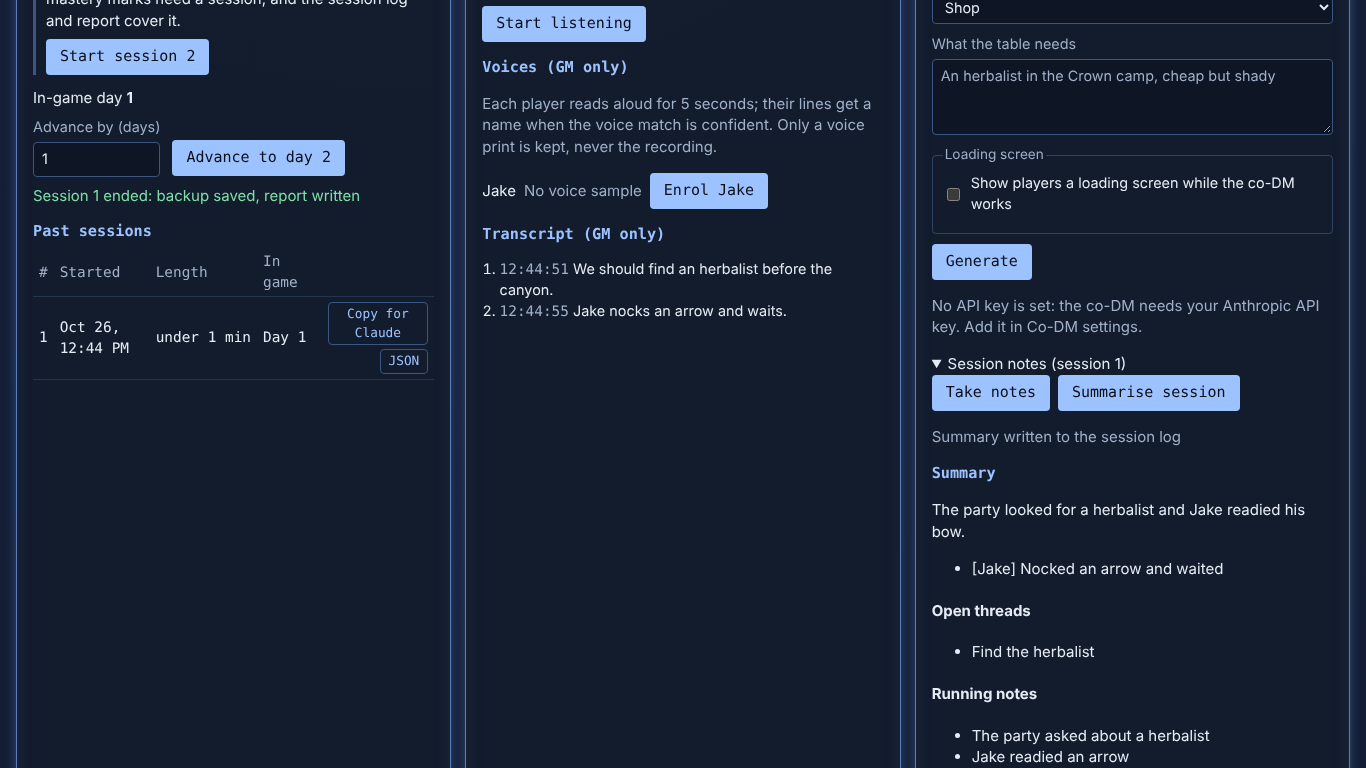
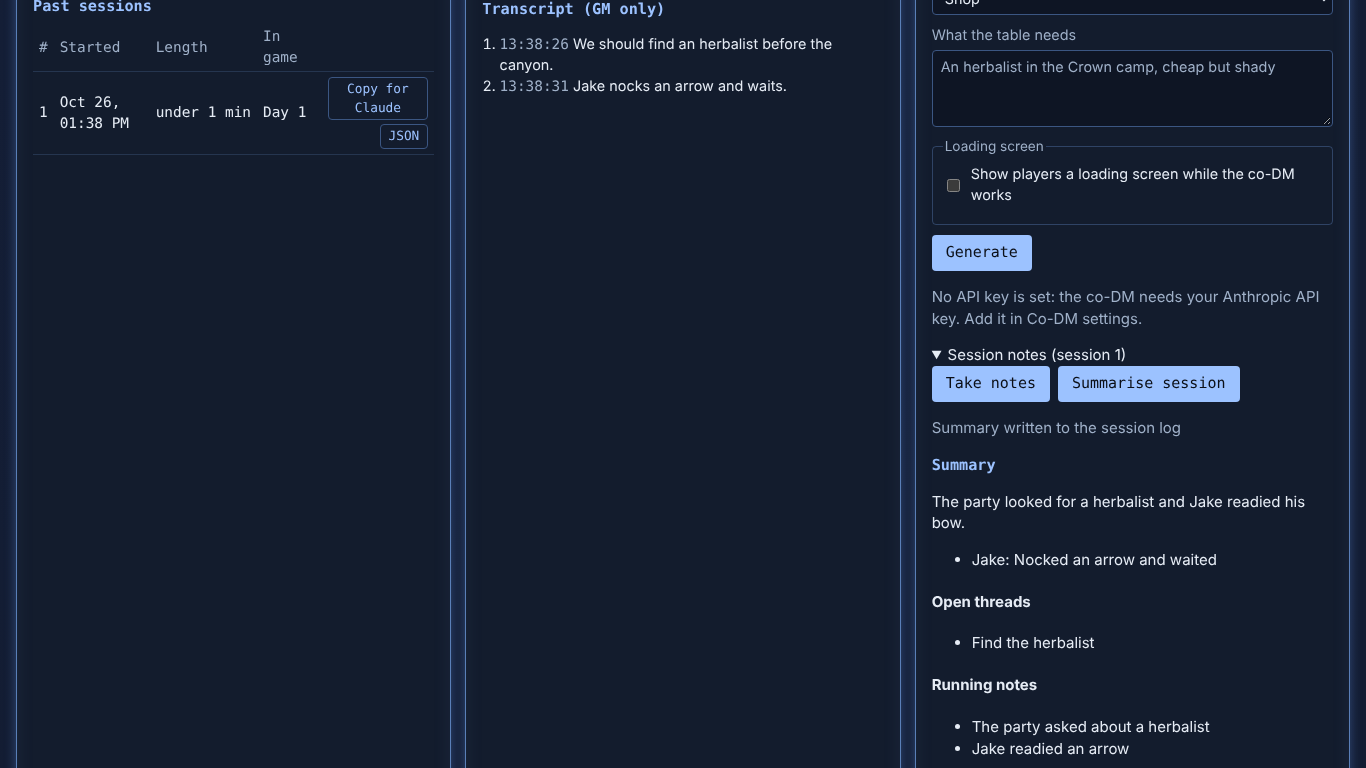
MC.9 review round 1: export follows every notes change; unread lines kept on an empty reply; notes file checked on read; one-line model text (D250)
Claude-Session: https://claude.ai/code/session_01EXXNBiStrfJAqiq4SSVq4K

diff --git a/apps/server/test/notesRoutes.test.ts b/apps/server/test/notesRoutes.test.ts
@@ -8,6 +8,10 @@ import { CoDm } from '../src/ai/coDm';
 import { FixtureAiClient } from '../src/ai/fake';
 import { readFileSync } from 'node:fs';
 import { createServer } from '../src/server';
+import { NotesStore } from '../src/ai/sessionNotes';
+import { draftsDir } from '../src/ai/practiceRoutes';
+import { sessionReport } from '../src/sessionLog';
+import { appendFileSync } from 'node:fs';
 import { transcriptsDir } from '../src/speech/routes';
 import { transcriptFile } from '../src/speech/transcript';
 import { CampaignStore } from '../src/store';
@@ -60,6 +64,19 @@ describe('session notes routes (MC.9)', () => {
       cipher: null,
       makeClient: () => {
         fake = new FixtureAiClient([
+          // Specific fixtures first: the first match wins.
+          { role: 'fast', match: '. Brin left town.', text: '{"notes": ["Brin left town"]}' },
+          { role: 'fast', match: 'Nothing worth noting', text: '{"notes": []}' },
+          {
+            role: 'fast',
+            match: '- Brin left town',
+            text: JSON.stringify({
+              whatHappened: 'Brin left town\n## Not a heading',
+              whoDidWhat: [],
+              openThreads: [],
+              npcsMet: ['Old Brin'],
+            }),
+          },
           { role: 'fast', match: 'Session notes.', text: '{"notes": ["The party met Old Brin"]}' },
           {
             role: 'fast',
@@ -180,5 +197,63 @@ describe('session notes routes (MC.9)', () => {
       session: session.number,
       notes: ['The party met Old Brin'],
     });
+  });
+
+  it('re-reads lines that gave no notes, and a second summary reaches the export (D250)', async () => {
+    const session = store.campaign.state!.sessions.at(-1)!;
+    const tf = transcriptFile(transcriptsDir(store), session.number);
+    const say = (text: string) =>
+      appendFileSync(
+        tf,
+        JSON.stringify({ at: '2026-10-26T20:30:00.000Z', startMs: 0, endMs: 900, text }) + '\n',
+      );
+    const stored = () => new NotesStore(draftsDir(store)).read(session.number);
+    const before = stored().readUpTo;
+    say('Nothing worth noting.');
+    const empty = await app.inject({
+      method: 'POST',
+      url: '/api/gm/ai/session-notes',
+      headers: gm,
+    });
+    expect(empty.json()).toMatchObject({ added: 0 });
+    expect(stored().readUpTo).toBe(before);
+
+    say('Brin left town.');
+    const some = await app.inject({ method: 'POST', url: '/api/gm/ai/session-notes', headers: gm });
+    expect(some.json()).toMatchObject({ added: 1 });
+    // The quiet line was sent again with the new one.
+    const prompt = fake.requests.at(-1)!.messages.at(-1)!.content;
+    expect(prompt).toContain('Nothing worth noting.');
+    expect(stored().readUpTo).toBe(before + 2);
+
+    const sum = await app.inject({
+      method: 'POST',
+      url: '/api/gm/ai/session-summary',
+      headers: gm,
+    });
+    expect(sum.statusCode, sum.body).toBe(200);
+    // Newlines in model text collapse to one line.
+    expect(sum.json().summary.whatHappened).toBe('Brin left town ## Not a heading');
+    const file = path.join(
+      exportsDir(),
+      store.id,
+      `session-${String(session.number).padStart(2, '0')}`,
+    );
+    const md = readFileSync(`${file}.md`, 'utf8');
+    expect(md).toContain('Brin left town ## Not a heading');
+    expect(md).not.toContain('The party met Old Brin in the Crown.');
+  });
+
+  it('a malformed summary never stops the session log (D250)', () => {
+    const session = store.campaign.state!.sessions.at(-1)!;
+    const bad = { readUpTo: 0, notes: ['a'], summary: { whatHappened: 'x' } } as never;
+    const report = sessionReport(
+      store.campaign,
+      session,
+      '2026-10-26T21:00:00.000Z',
+      undefined,
+      bad,
+    );
+    expect(report?.markdown).toBeTruthy();
   });
 });

diff --git a/apps/server/src/ai/sessionNotes.ts b/apps/server/src/ai/sessionNotes.ts
@@ -50,7 +50,13 @@ export function notesPrompt(lines: readonly TranscriptLine[]): string {
   ].join('\n');
 }
 
-const line = z.string().trim().min(1).max(400);
+/** One line of text: newlines and runs of spaces collapse, so model text cannot shape the markdown. */
+const oneLine = (max: number) =>
+  z
+    .string()
+    .transform((x) => x.replace(/\s+/g, ' ').trim())
+    .pipe(z.string().min(1).max(max));
+const line = oneLine(400);
 const notesSchema = z.object({ notes: z.array(z.unknown()) });
 
 /** Notes from a reply; non-string or empty items are dropped, not fatal. */
@@ -81,7 +87,7 @@ const listOf = (schema: z.ZodTypeAny) =>
     .transform((xs) => xs.flatMap((x) => (schema.safeParse(x).success ? [schema.parse(x)] : [])));
 
 const summarySchema = z.object({
-  whatHappened: z.string().trim().min(1).max(4000),
+  whatHappened: oneLine(4000),
   whoDidWhat: listOf(z.object({ character: line, did: line })),
   openThreads: listOf(line),
   npcsMet: listOf(line),
@@ -145,6 +151,20 @@ export function renderNotes(file: SessionNotesFile): string {
   return out.join('\n');
 }
 
+// The stored file is checked in full on read, so a hand-edited or damaged
+// file is refused rather than breaking the session log (D250).
+const storedSummary = z.object({
+  whatHappened: z.string(),
+  whoDidWhat: z.array(z.object({ character: z.string(), did: z.string() })),
+  openThreads: z.array(z.string()),
+  npcsMet: z.array(z.string()),
+});
+const fileSchema = z.object({
+  readUpTo: z.number().int().min(0),
+  notes: z.array(z.string()),
+  summary: storedSummary.nullable().default(null),
+});
+
 /** `<campaign>/codm/notes-<NN>.json`, one per play session. */
 export class NotesStore {
   constructor(private readonly dir: string) {}
@@ -156,11 +176,15 @@ export class NotesStore {
   read(session: number): SessionNotesFile {
     const f = this.file(session);
     if (!existsSync(f)) return EMPTY;
-    const data = JSON.parse(readFileSync(f, 'utf8')) as Partial<SessionNotesFile> | null;
-    if (!data || !Array.isArray(data.notes) || typeof data.readUpTo !== 'number') {
+    let data: unknown;
+    try {
+      data = JSON.parse(readFileSync(f, 'utf8'));
+    } catch {
       throw new Error(`Damaged session notes file: ${f}`);
     }
-    return { readUpTo: data.readUpTo, notes: data.notes, summary: data.summary ?? null };
+    const parsed = fileSchema.safeParse(data);
+    if (!parsed.success) throw new Error(`Damaged session notes file: ${f}`);
+    return parsed.data;
   }
 
   write(session: number, value: SessionNotesFile): void {

diff --git a/apps/server/src/ai/notesRoutes.ts b/apps/server/src/ai/notesRoutes.ts
@@ -71,8 +71,12 @@ export function registerNotesRoutes(
       const file = notes.read(session.number);
       const all = readTranscript(store, session.number);
       const fresh = await takeNotes(options.client, all.slice(file.readUpTo));
-      const next = { ...file, readUpTo: all.length, notes: [...file.notes, ...fresh] };
-      notes.write(session.number, next);
+      // Lines count as read only when notes came back, so a reply with no
+      // usable notes leaves them to be read again (D250).
+      const next = fresh.length
+        ? { ...file, readUpTo: all.length, notes: [...file.notes, ...fresh] }
+        : file;
+      if (fresh.length) notes.write(session.number, next);
       return {
         session: session.number,
         notes: next.notes,
@@ -89,9 +93,12 @@ export function registerNotesRoutes(
       // Catch up on lines heard since the last notes first.
       const all = readTranscript(store, session.number);
       const fresh = await takeNotes(options.client, all.slice(file.readUpTo));
-      file = { ...file, readUpTo: all.length, notes: [...file.notes, ...fresh] };
-      if (file.notes.length === 0) {
+      if (fresh.length) {
+        // Saved before the summary call, so a failed summary keeps them (D250).
+        file = { ...file, readUpTo: all.length, notes: [...file.notes, ...fresh] };
         notes.write(session.number, file);
+      }
+      if (file.notes.length === 0) {
         throw new AiError('Nothing heard this session to summarise', 'bad-reply');
       }
       const party = state.characterOrder

diff --git a/apps/server/src/sessionLog.ts b/apps/server/src/sessionLog.ts
@@ -1,3 +1,4 @@
+import { createHash } from 'node:crypto';
 import {
   closeSync,
   existsSync,
@@ -97,6 +98,15 @@ function targetSession(state: CampaignState | null): SessionRecord | null {
 }
 
 /** Format tag of the JSON session log and report (M9.1). */
+/** Co-DM notes as markdown; a malformed notes value never stops the session log (D250). */
+function safeNotes(coDm: SessionNotesFile): string {
+  try {
+    return renderNotes(coDm);
+  } catch {
+    return '';
+  }
+}
+
 export const SESSION_REPORT_FORMAT = 'the-system/session-report';
 
 /**
@@ -120,7 +130,7 @@ export function sessionReport(
       ? base
       : sessionLogBase(campaign, range.fromSeq);
   const log = buildSessionLog(campaign, range.fromSeq, fold, toSeq);
-  const notes = coDm ? renderNotes(coDm) : '';
+  const notes = coDm ? safeNotes(coDm) : '';
   const markdown =
     renderSessionLog(log, { startedAt: session.startedAt, writtenAt, session }) +
     (notes ? `\n${notes}` : '');
@@ -191,7 +201,8 @@ export class SessionLogWriter {
 
   private notesKey(sessionNumber: number): string {
     const n = this.notes(sessionNumber);
-    return n ? `${n.notes.length}:${n.summary ? 's' : '-'}` : '';
+    // Any change to the notes or summary (a re-summary included) rewrites the log (D250).
+    return n ? createHash('sha1').update(JSON.stringify(n)).digest('hex').slice(0, 12) : '';
   }
 
   private plan() {

diff --git a/apps/server/test/sessionNotes.test.ts b/apps/server/test/sessionNotes.test.ts
@@ -99,6 +99,14 @@ describe('session notes (MC.9)', () => {
       expect(store.read(2).notes).toEqual([]);
       writeFileSync(store.file(3), '{"notes": 1}');
       expect(() => store.read(3)).toThrow(/Damaged/);
+      // A hand-edited summary missing a list is refused too (D250).
+      writeFileSync(
+        store.file(4),
+        JSON.stringify({ readUpTo: 1, notes: ['a'], summary: { whatHappened: 'x' } }),
+      );
+      expect(() => store.read(4)).toThrow(/Damaged/);
+      writeFileSync(store.file(5), 'not json');
+      expect(() => store.read(5)).toThrow(/Damaged/);
     } finally {
       rmSync(dir, { recursive: true, force: true });
     }

diff --git a/e2e/MC.9.spec.ts b/e2e/MC.9.spec.ts
@@ -92,7 +92,7 @@ test('the co-DM notes the session and writes its summary into the export', async
   );
   const summary = notes.getByTestId('session-summary');
   await expect(summary).toContainText('The party looked for a herbalist');
-  await expect(summary).toContainText('[Jake] Nocked an arrow and waited');
+  await expect(summary).toContainText('Jake: Nocked an arrow and waited');
   await expect(summary).toContainText('Find the herbalist');
   await notes.scrollIntoViewIfNeeded();
   await gm.screenshot({ path: path.join(shots, 'gm-session-summary-1366x768.png') });

diff --git a/apps/web/src/gm/SessionNotes.tsx b/apps/web/src/gm/SessionNotes.tsx
@@ -90,7 +90,7 @@ export function SessionNotes({ gmKey }: { gmKey: string }) {
             <ul aria-label="Who did what">
               {s.whoDidWhat.map((w, i) => (
                 <li key={i}>
-                  [{w.character}] {w.did}
+                  {w.character}: {w.did}
                 </li>
               ))}
             </ul>

diff --git a/docs/DECISIONS.md b/docs/DECISIONS.md
@@ -272,3 +272,4 @@ Newest at the bottom. Format: ID · date · decision · why. D-numbers are writt
 - D246 · 2026-10-26 · MC.7 review round 2: with no session running, Draft reads the most recent session's transcript and stamps that session on its drafts, so drafting works from the end-of-session review after End session. · DESIGN §11 puts drafts "into the end-of-session review".
 - D247 · 2026-10-26 · MC.9 session notes and summary: GM-only routes `/api/gm/ai/session-notes` (take notes from new transcript lines of the running session, else the one that just ended) and `/api/gm/ai/session-summary` (catch up the notes, then the fast model writes what happened, who did what, open threads, NPCs met); both stored per session in `codm/notes-NN.json` and written into that session's log and export (`## Co-DM summary`/`## Co-DM notes`, JSON `coDm`). The summary is written when the GM asks (a button after End session), never by an automatic paid call; a damaged notes file never stops the session log. · DESIGN §11 "Memory" and "Limits" (the GM approves every paid step).
 - D248 · 2026-10-26 · Efficiency check (LOOP §9): Tier 1 applied, LOOP §8.0 has the run compute and record its close-out minute and go back to §5 under 44 with an open item or Medium; in trial until the 18:00 check + 6 runs. D234 not yet judgeable. · Sonnet auditor: three of the last four runs closed out early on a guessed clock.
+- D250 · 2026-10-26 · MC.9 review round 1: the session log's notes key is a hash of the whole notes file, so a re-summary or a hand-edited summary reaches the export; transcript lines count as read only when notes come back (a reply with no usable notes leaves them for the next call); catch-up notes are saved before the summary call, so a failed summary keeps them; the stored notes file is checked in full (zod) on read and the markdown render is guarded, so a damaged file never stops the session log; note and summary text collapse to one line; summary lines read `Jake: …` as in the export (the buttons stay enabled without a key: the panel checks the key once on open, and the panel's no-key notice already shows). · DESIGN §11 "Memory" (the summary is in the log and export); never lose campaign data.
